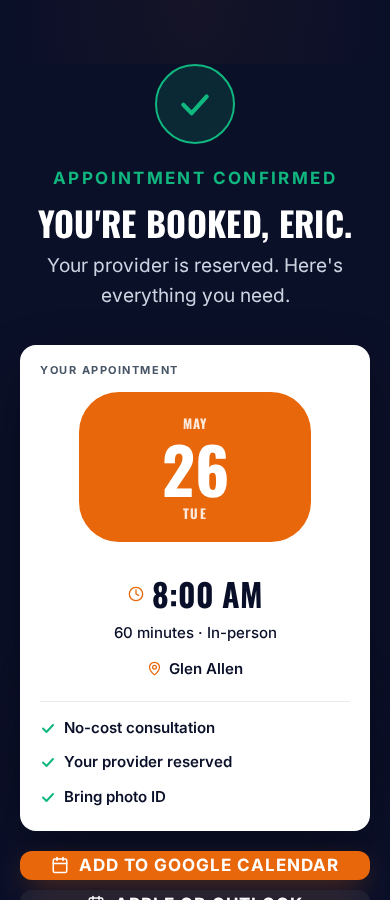
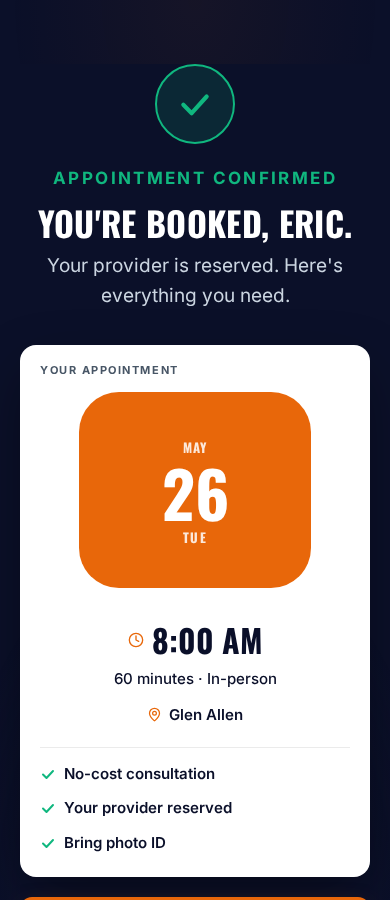
polish(BookConfirmed): larger pill badge · 390 18.95% → 16.41%, 1280 unchanged 13.73%

Changed region(s): [[0.0308, 0.4667, 0.9538, 1.0]]

diff --git a/src/index.css b/src/index.css
@@ -420,10 +420,10 @@ input[type="radio"] {
 }
 
 .mwc-appt-date-pill {
-  /* Large pill — mobile */
+  /* Large pill — mobile — reference is ~180px tall */
   background: #E8670A;
   border-radius: 40px;
-  padding: 20px 24px 18px;
+  padding: 44px 24px 40px;
   display: flex;
   flex-direction: column;
   align-items: center;

diff --git a/.ralph/METRICS.md b/.ralph/METRICS.md
@@ -132,3 +132,7 @@
 | 2026-05-26T17:06:11.171Z | BookConfirmed | 390 | 18.73% | 23.36% | 21.04% | 18.73% | ❌ |
 | 2026-05-26T17:09:54.162Z | BookConfirmed | 390 | 16.82% | 21.07% | 18.95% | 16.82% | ❌ |
 | 2026-05-26T17:10:21.753Z | BookConfirmed | 1280 | 15.37% | 12.09% | 13.73% | 12.09% | ❌ |
+| 2026-05-26T17:12:24.350Z | BookConfirmed | 390 | 17.71% | 22.32% | 20.02% | 17.71% | ❌ |
+| 2026-05-26T17:15:53.843Z | BookConfirmed | 390 | 15.88% | 20.29% | 18.09% | 15.88% | ❌ |
+| 2026-05-26T17:17:37.250Z | BookConfirmed | 390 | 14.70% | 18.11% | 16.41% | 14.70% | ❌ |
+| 2026-05-26T17:18:02.605Z | BookConfirmed | 1280 | 15.37% | 12.09% | 13.73% | 12.09% | ❌ |